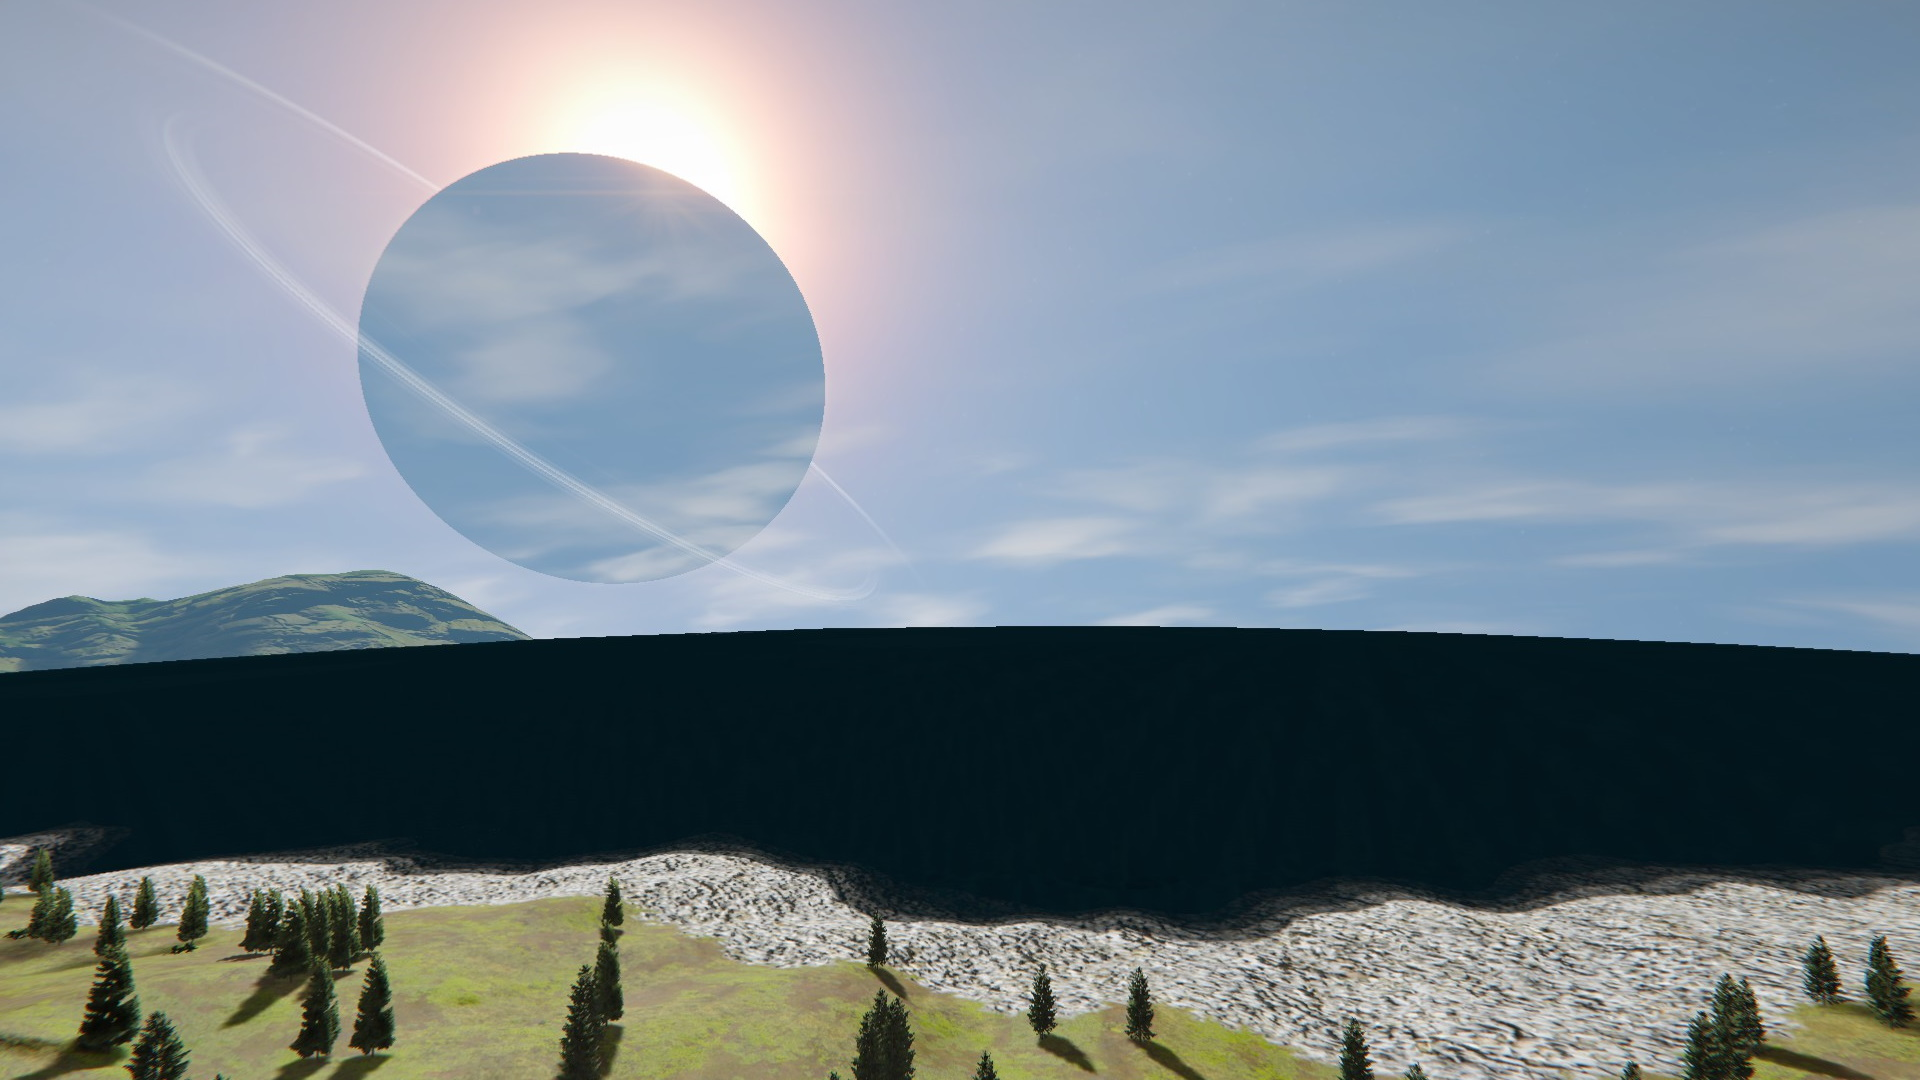
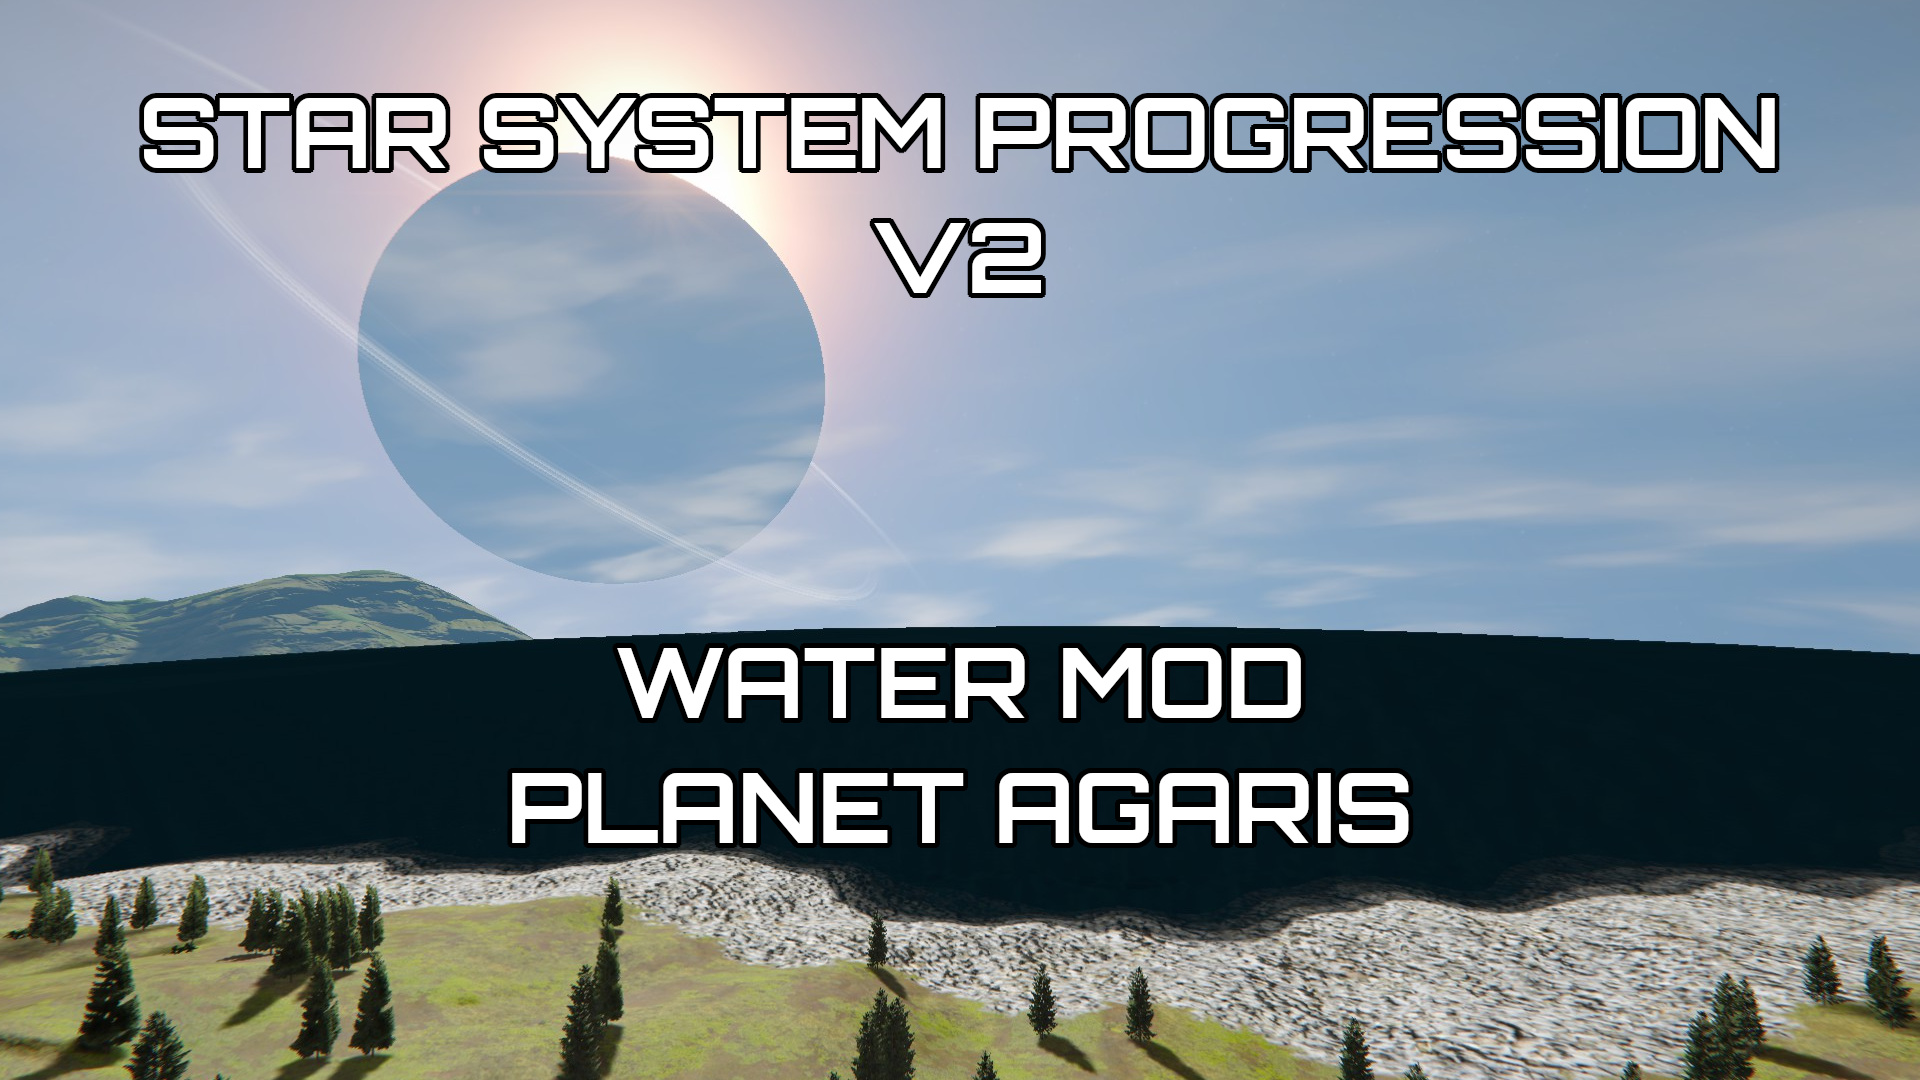
New thumbnails for steam mods and updated readmes

Changed region(s): [[0.0625, 0.0611, 0.9375, 0.275], [0.25, 0.7028, 0.75, 0.7944], [0.3125, 0.5806, 0.6875, 0.6722]]

diff --git a/README.md b/README.md
@@ -1,10 +1,14 @@
 # space-engineers-star-system-progression
 I wanted to make a Star System type scenario where starting anywhere is possible but you still need to go through objective steps in order to advance efficiently.
 
-[Workshop link](https://steamcommunity.com/sharedfiles/filedetails/?id=2071799682)
+## Steam Workshop links
+This mod is used in [this world save (Steam Workshop)](https://steamcommunity.com/sharedfiles/filedetails/?edit=true&id=2590817100) and it defines the modified planets.
+
+[Main mod Star System Progression V2](https://steamcommunity.com/sharedfiles/filedetails/?id=2071799682)
+[Addon: Water Mod + Planet Agaris](https://steamcommunity.com/sharedfiles/filedetails/?id=2590313274)
+[Addon: Daily Needs Survival Kit](https://steamcommunity.com/sharedfiles/filedetails/?id=2590791204)
 
 ## The idea of it
-
 All Planets and Moons are available for starting out from. You do find all ores ores on all planets but each have specialties and limitations.
 
 Basically you usually need to get to asteroids or moons for silver and only moons provide plentiful gold. Other planets will provide for whatever you don't reliably get where you started.
@@ -78,16 +82,22 @@ Until I can be arsed to automate this with a script, here's a list of things use
 * `readme.txt` (from `/configs/Workshop/Star System Progression V2/readme.txt`)
 * `thumb.jpg` (from `/configs/Workshop/Star System Progression V2/thumb.jpg`)
 * `Data/*.sbc` (from `/Planets/*.sbc`)
+* `Data/PlanetDataFiles` (from `/Ore Maps/PlanetDataFiles`)
+* `Data/Prefabs` (from `/Respawn Ships/Prefabs`)
+* `Data/RespawnShips.sbc` (from `/Respawn Ships/RespawnShips.sbc`)
 * `Data/VoxelMaterialChangesBoulders.sbc` (from `/Surface Boulders/VoxelMaterialChangesBoulders.sbc`)
 * `Data/VoxelMaterialChangesAsteroids.sbc` (from `/Scarcer Asteroid Ores/VoxelMaterialChangesAsteroids.sbc`)
-* `Data/PlanetDataFiles` (from `/Ore Maps/PlanetDataFiles`)
+* `Textures/*.*` (from `/Respawn Ships/Textures/*.*`)
 
 ### Star System Progression V2 - Water Planet Agaris
 * `metadata.mod` (from `/configs/Workshop/Star System Progression V2 - Water Planet Agaris/metadata.mod`)
 * `readme.txt` (from `/configs/Workshop/Star System Progression V2 - Water Planet Agaris/readme.txt`)
 * `thumb.jpg` (from `/configs/Workshop/Star System Progression V2 - Water Planet Agaris/thumb.jpg`)
 * `Data/Agaris.sbc` (from `/Planets - Water Mod/Agaris.sbc`)
-* `Data/PlanetDataFiles/Planet Agaris` (from `/Ore Maps - Water Mod/PlanetDataFiles/Planet Agaris`)
+* `Data/PlanetDataFiles/Agaris` (from `/Ore Maps - Water Mod/PlanetDataFiles/Planet Agaris`)
 
-## The Scenario
-This mod is used in [this scenario (git respository)](https://github.com/paranox/space-engineers-survival-progressively-less-likely) and it defines the star system itself.
+### Star System Progression V2 - Daily Needs Survival Kit
+* `metadata.mod` (from `/configs/Workshop/Star System Progression V2 - Daily Needs Survival Kit/metadata.mod`)
+* `readme.txt` (from `/configs/Workshop/Star System Progression V2 - Daily Needs Survival Kit/readme.txt`)
+* `thumb.jpg` (from `/configs/Workshop/Star System Progression V2 - Daily Needs Survival Kit/thumb.jpg`)
+* `Data/Prefabs` (from `/Respawn Ships - Daily Needs/Prefabs`)
